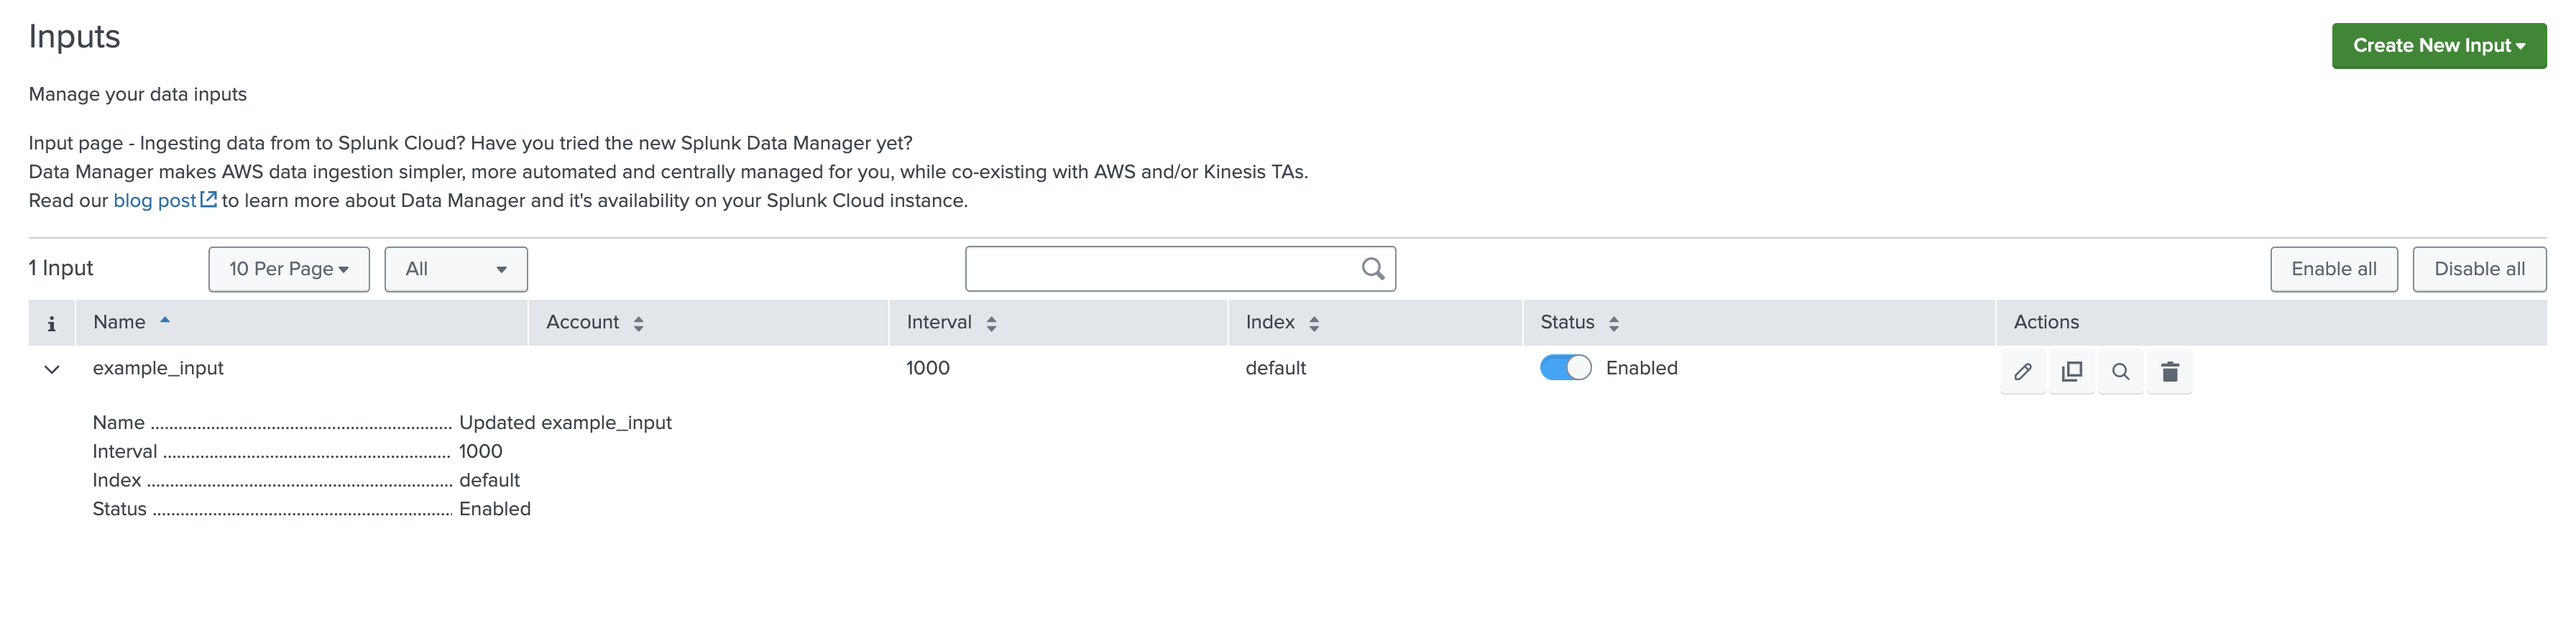
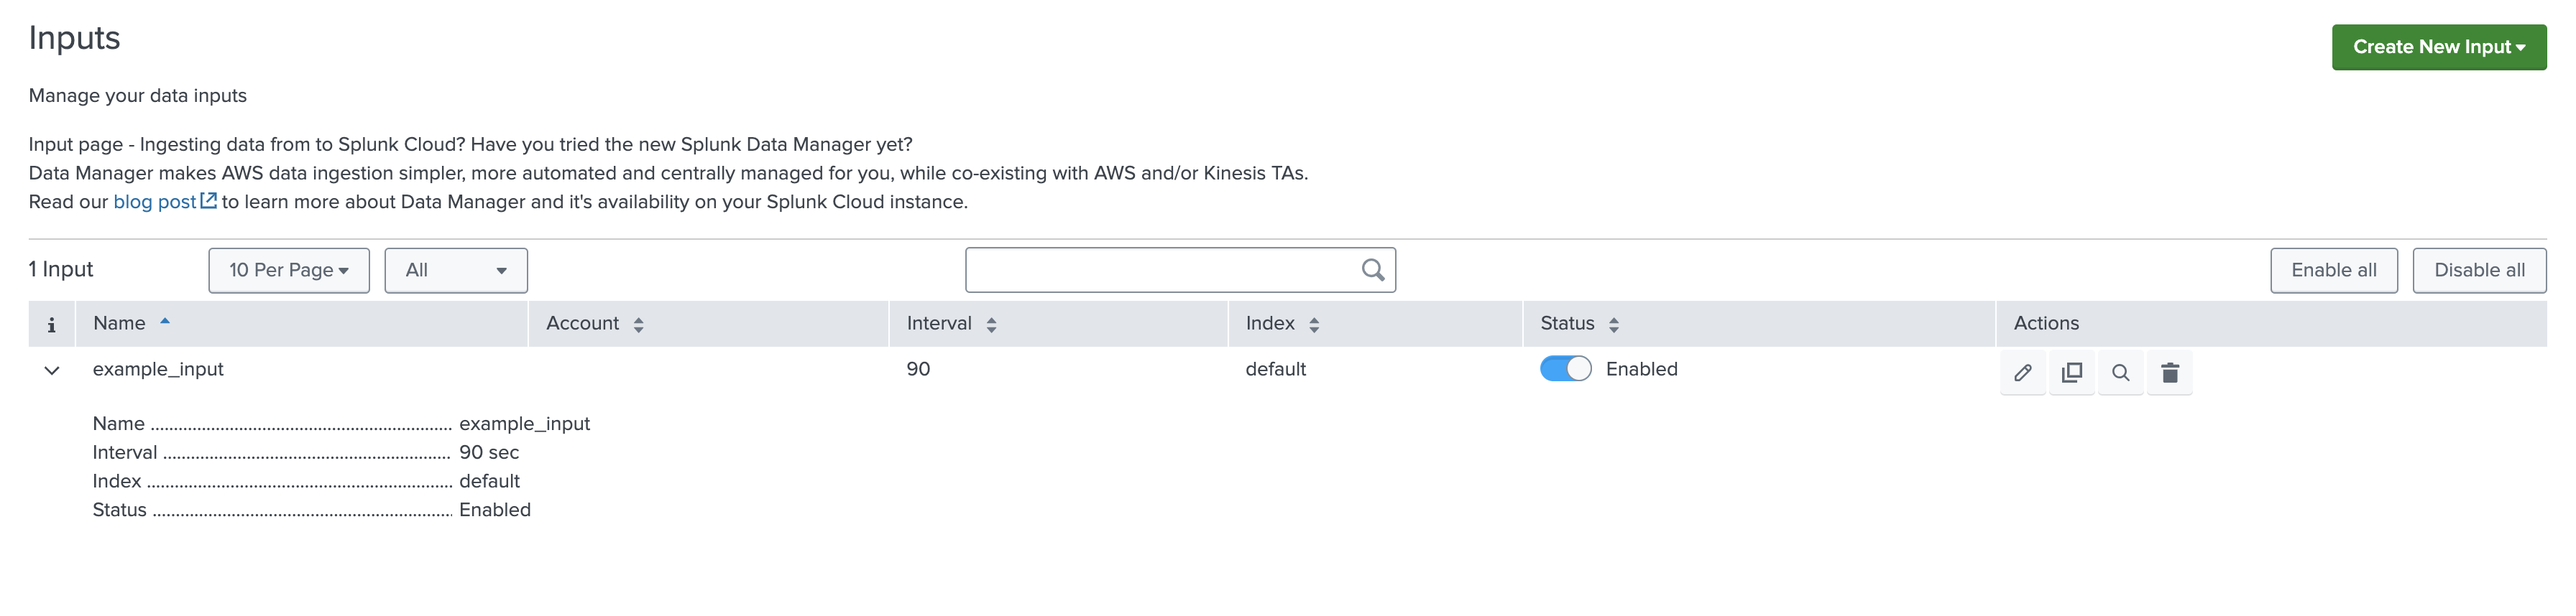
refactor(custom_row): optimize code for customTableControl and fix test case

diff --git a/ui/src/components/table/CustomTableControl.jsx b/ui/src/components/table/CustomTableControl.jsx
@@ -30,47 +30,45 @@ class CustomTableControl extends Component {
     componentDidMount() {
         const globalConfig = getUnifiedConfigs();
         this.loadCustomControl()
-            .then((Control) => {
-                if (typeof Control === 'function') {
-                    this.customControl = new Control(
-                        globalConfig,
-                        this.props.serviceName,
-                        this.el,
-                        this.state.row,
-                        this.props.field
-                    );
-
-                    this.callCustomMethod('getDLRows')
-                        .then((result) => {
-                            // check if getDLRow is exist in the custom input row file
-                            if (result && typeof result === 'object' && !Array.isArray(result)) {
-                                this.setState({
-                                    row: { ...result },
-                                    checkMethodIsPresent: true,
-                                    loading: false,
-                                });
-                            } else if (result !== null) {
-                                // check if getDLRow return invalid object
-                                this.setState({
-                                    loading: false,
-                                    checkMethodIsPresent: true,
-                                    methodNotPresentError:
-                                        'getDLRows method did not return a valid object',
-                                });
-                            } else {
-                                // if getDLRow is not present then check render method is present or not
-                                this.handleNoGetDLRows();
-                            }
-                        })
-                        .catch((error) => {
-                            onCustomControlError({ methodName: 'getDLRows', error });
-                            this.handleNoGetDLRows();
-                        });
-                } else {
+            .then(async (Control) => {
+                if (typeof Control !== 'function') {
                     this.setState({
                         loading: false,
                         methodNotPresentError: 'Loaded module is not a constructor function',
                     });
+                    return;
+                }
+                this.customControl = new Control(
+                    globalConfig,
+                    this.props.serviceName,
+                    this.el,
+                    this.state.row,
+                    this.props.field
+                );
+
+                const result = await this.callCustomMethod('getDLRows');
+                try {
+                    // check if getDLRow is exist in the custom input row file
+                    if (result && typeof result === 'object' && !Array.isArray(result)) {
+                        this.setState({
+                            row: { ...result },
+                            checkMethodIsPresent: true,
+                            loading: false,
+                        });
+                    } else if (result !== null) {
+                        // check if getDLRow return invalid object
+                        this.setState({
+                            loading: false,
+                            checkMethodIsPresent: true,
+                            methodNotPresentError: 'getDLRows method did not return a valid object',
+                        });
+                    } else {
+                        // if getDLRow is not present then check render method is present or not
+                        this.handleNoGetDLRows();
+                    }
+                } catch (error) {
+                    onCustomControlError({ methodName: 'getDLRows', error });
+                    this.handleNoGetDLRows();
                 }
             })
             .catch(() =>
@@ -111,6 +109,13 @@ class CustomTableControl extends Component {
             }
         });
 
+    /**
+     * Calls a method on the customControl instance, if it exists, with the provided arguments.
+     *
+     * @param {string} methodName - The name of the method to call on the customControl class instance.
+     * @param  {...unknown} args - Any arguments that should be passed to the method.
+     * @returns {*} - The response from the custom control method, or null if the method does not exist or an error occurs.
+     */
     callCustomMethod = async (methodName, ...args) => {
         try {
             if (typeof this.customControl[methodName] === 'function') {

diff --git a/ui/src/components/table/TableExpansionRowData.jsx b/ui/src/components/table/TableExpansionRowData.jsx
@@ -2,13 +2,20 @@ import React from 'react';
 import DL from '@splunk/react-ui/DefinitionList';
 import { _ } from '@splunk/ui-utils/i18n';
 
+/**
+ * Generates the definition list rows for the expansion view based on the provided row data and moreInfo configuration.
+ *
+ * @param {Object} row - The data object containing the row information.
+ * @param {Array} moreInfo - An array of objects containing configuration for each field to display.
+ * @returns {Array} - An array of React elements representing the definition list rows.
+ */
 export function getExpansionRowData(row, moreInfo) {
     const DefinitionLists = [];
 
     if (moreInfo?.length) {
         moreInfo.forEach((val) => {
             const label = _(val.label);
-            // remove extra rows which are empty in moreInfo
+            // Remove extra rows which are empty in moreInfo
             if (val.field in row && row[val.field] !== null && row[val.field] !== '') {
                 DefinitionLists.push(<DL.Term key={val.field}>{label}</DL.Term>);
                 DefinitionLists.push(

diff --git a/tests/testdata/test_addons/package_global_config_everything/package/appserver/static/js/build/custom/custom_input_row.js b/tests/testdata/test_addons/package_global_config_everything/package/appserver/static/js/build/custom/custom_input_row.js
@@ -1,0 +1,34 @@
+class CustomInputRow {
+  /**
+   * Custom Row Cell
+   * @constructor
+   * @param {Object} globalConfig - Global configuration.
+   * @param {string} serviceName - Input service name.
+   * @param {element} el - The element of the custom cell.
+   * @param {Object} row - custom row object,
+   *     use this.row.<field_name>, where <field_name> is a field name
+   */
+  constructor(globalConfig, serviceName, el, row) {
+    this.globalConfig = globalConfig;
+    this.serviceName = serviceName;
+    this.el = el;
+    this.row = row;
+  }
+
+  getDLRows() {
+    return Object.fromEntries(
+      Object.entries(this.row).map(([key, value]) => [
+        key,
+        key === "interval" ? `${value} sec` : value,
+      ])
+    );
+  }
+
+  render() {
+    const content_html_template = "Custom Input Row";
+    this.el.innerHTML = content_html_template;
+    return this;
+  }
+}
+
+export default CustomInputRow;

diff --git a/tests/ui/test_input_page.py b/tests/ui/test_input_page.py
@@ -293,11 +293,12 @@ class TestInputPage(UccTester):
     ):
         """Verifies the expand functionality of the inputs table"""
         input_page = InputPage(ucc_smartx_selenium_helper, ucc_smartx_rest_helper)
+        interval = "90"
         self.assert_util(
             input_page.table.get_more_info,
             {
                 "Name": "dummy_input_one",
-                "Interval": "90",
+                "Interval": f"{interval} sec",
                 "Index": "default",
                 "Status": "Enabled",
                 "Example Account": "test_input",
@@ -309,6 +310,12 @@ class TestInputPage(UccTester):
             },
             left_args={"name": "dummy_input_one"},
         )
+        backend_stanza = input_page.backend_conf.get_stanza(
+            "example_input_one://dummy_input_one"
+        )
+        # we verify that the conf value is `interval` and only the UI has changed
+        assert backend_stanza.get("interval") == interval
+
 
     @pytest.mark.execute_enterprise_cloud_true
     @pytest.mark.forwarder

diff --git a/docs/custom_ui_extensions/custom_row.md b/docs/custom_ui_extensions/custom_row.md
@@ -63,7 +63,7 @@ class CustomInputRow {
         return Object.fromEntries(
             Object.entries(this.row).map(([key, value]) => [
                 key,
-                key === "name" ? `Updated ${value}` : value,
+                key === "interval" ? `${value} sec` : value,
             ])
         );
     }
